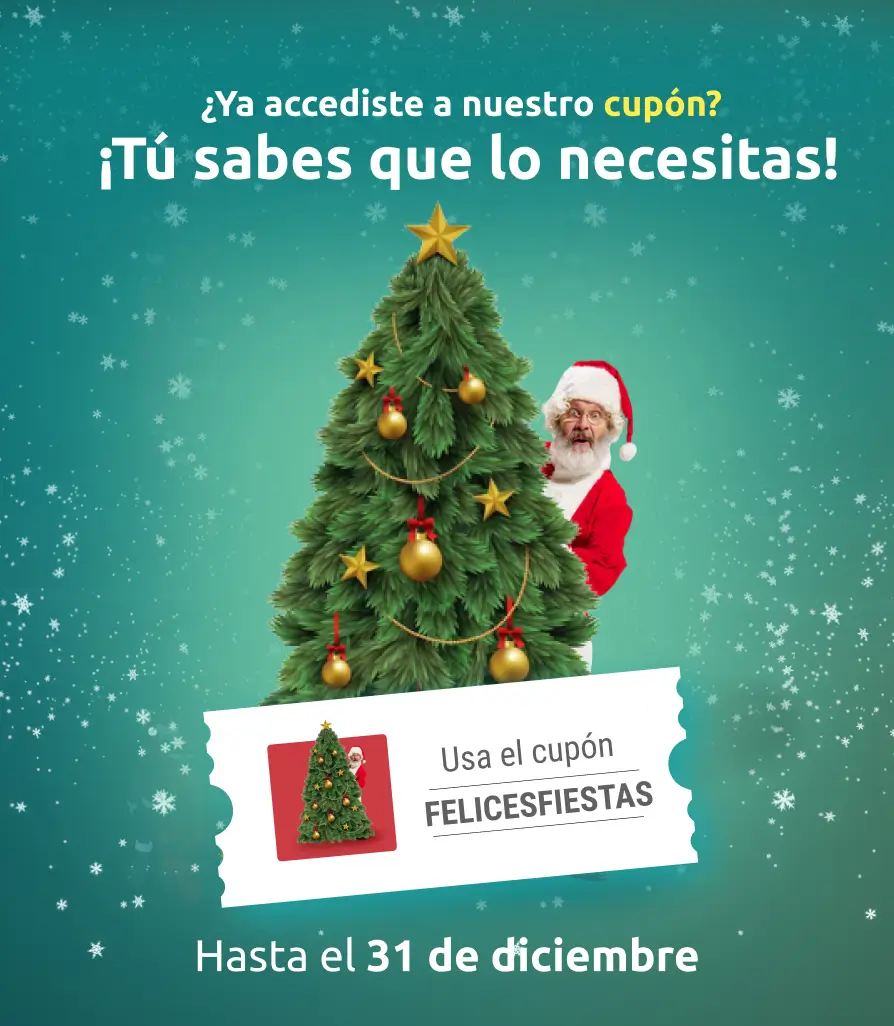
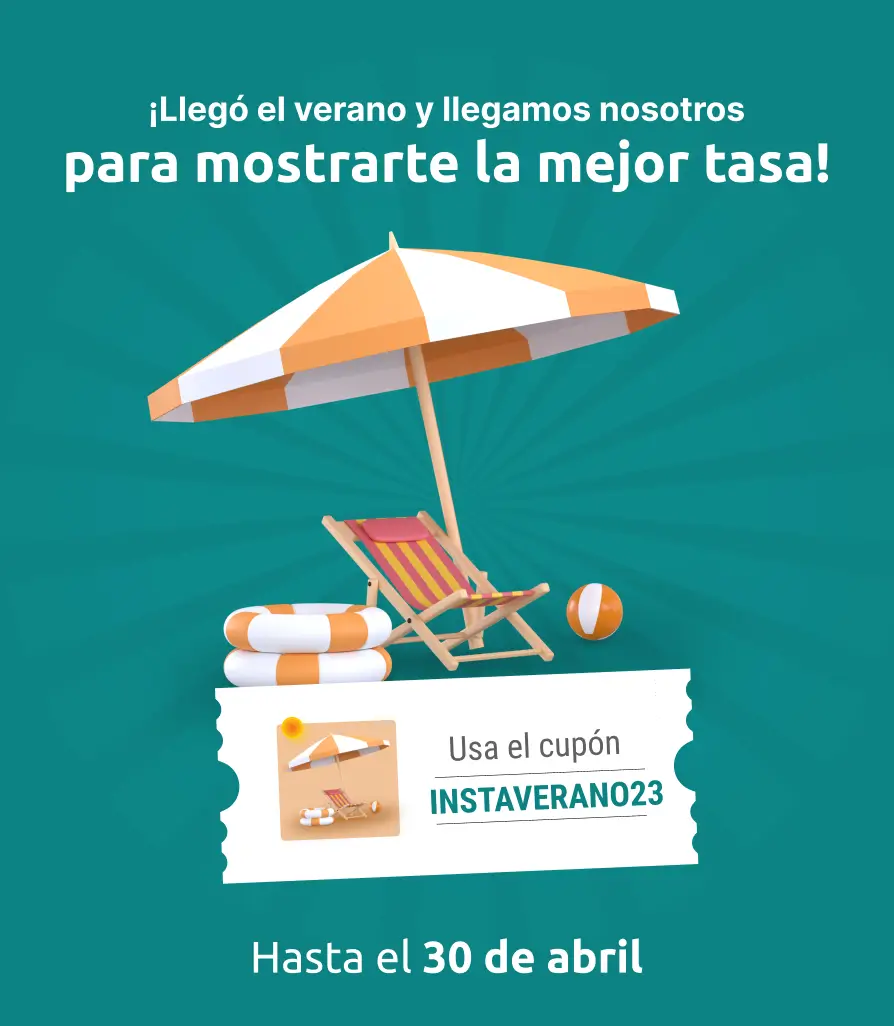
cupon 2023 verano

diff --git a/pages/beneficios.js b/pages/beneficios.js
@@ -57,11 +57,13 @@ const Promociones = () => {
               </div>
               <div className={styles.Info}>
                 <h3>Cupón del mes</h3>
-                <h2>FELICESFIESTAS</h2>
+                <h2>INSTAVERANO23</h2>
                 <p className={styles.Date}>
-                  <time dateTime="01-12-2022">01/12</time> al <time dateTime="31-12-2022">31/12</time> del 2022
+                  <time dateTime="01-01-2023">01/01</time> al <time dateTime="30-04-2023">30/04</time> del 2023
                 </p>
-                <p>Celebra las fiestas realizando tus cambios con el cupón FELICESFIESTAS y obtén 10 puntos a favor de tu cambio. Válido para 2 cambios a partir de $100 USD.</p>
+                <p>
+                  Celebra todo el verano 2023 realizando tus cambios con el cupón INSTAVERANO23 y obtén 10 puntos a favor de tu cambio. Válido para 2 cambios a partir de $100 USD.
+                </p>
                 <div className={styles.Actions}>
                   <a href="https://app.instakash.net/signin" className="mr-4">
                     Acceder y usar cupón

diff --git a/components/UI/carousels/ads.component.js b/components/UI/carousels/ads.component.js
@@ -35,9 +35,9 @@ const AdsCarousel = () => {
         <Link href="/beneficios">
           <a className={styles.BannerCard}>
             {isMobile ? (
-              <Image src="/images/banners/cupon360.webp" alt="Mejora el tipo de cambio con INSTAKASH usando nuestro cupón del mes." layout="fill" objectFit="contain" />
+              <Image src="/images/banners/cupon360.webp" alt="Cambiar dólares y soles con INSTAKASH en el verano" layout="fill" objectFit="contain" />
             ) : (
-              <Image src="/images/banners/cupon1200.webp" alt="Mejora el tipo de cambio con INSTAKASH usando nuestro cupón del mes." layout="fill" objectFit="contain" />
+              <Image src="/images/banners/cupon1200.webp" alt="Cambiar dólares y soles con INSTAKASH en el verano" layout="fill" objectFit="contain" />
             )}
           </a>
         </Link>

diff --git a/pages/index.js b/pages/index.js
@@ -312,7 +312,7 @@ const Home = ({ counters }) => {
         </div>
       </section>
       <BaseModal isOpen={infoModal} onClose={handleCloseModal}>
-        <img src="/images/posters/comunicado.webp" alt="INSTAKASH te desea un feliz año nuevo 2023." />
+        <img src="/images/posters/cupon.webp" alt="cambia dólares y soles con INSTAKASH en el verano." />
         {/* <div className={styles.ModalBody}>
           <h3>Caida de Interbank</h3>
           <p>
